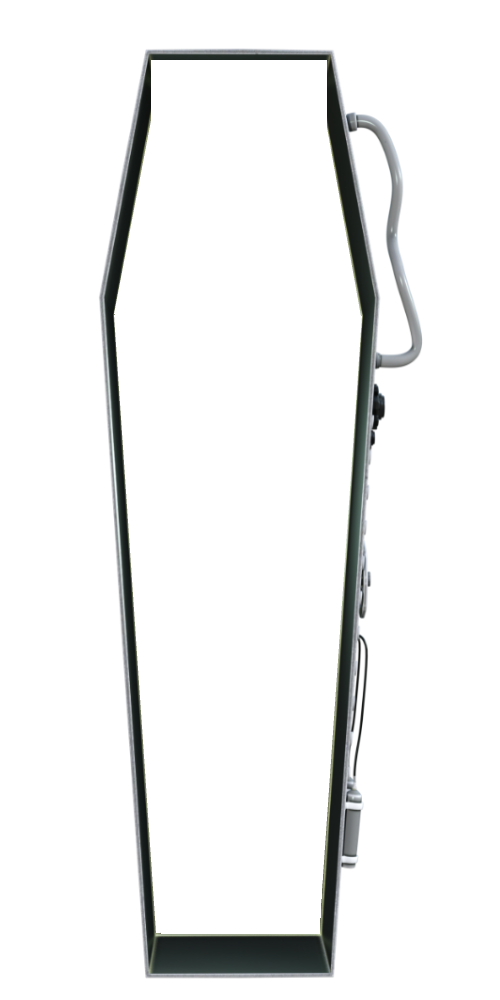
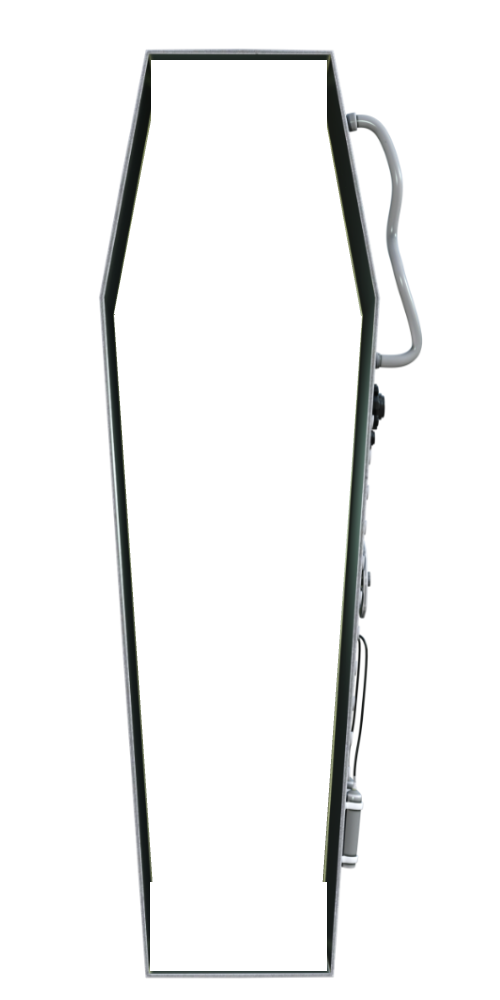
Better frame and alfa mask to cut off less at the bottom

Changed region(s): [[0.3, 0.868, 0.66, 0.992]]

diff --git a/BondageClub/Assets/Female3DCG/Female3DCG.js b/BondageClub/Assets/Female3DCG/Female3DCG.js
@@ -3099,7 +3099,7 @@ var AssetFemale3DCG = [
 					{Name:"Inside", Priority:1, HasType: false},
 					{Name:"Frame", Priority:57, ColorGroup: "Main", HasType: false, Alpha: [{ Masks: [
 						[0, 0, 500, 50],  //Above 
-						[0, 950, 500, 50],  //Below
+						[0, 970, 500, 30],  //Below
 						[0, 0, 160, 1000], //Left side is covered by lid
 						[360, 0, 135, 200], //Triangle approx of right side
 						[370, 200, 135, 1000],
